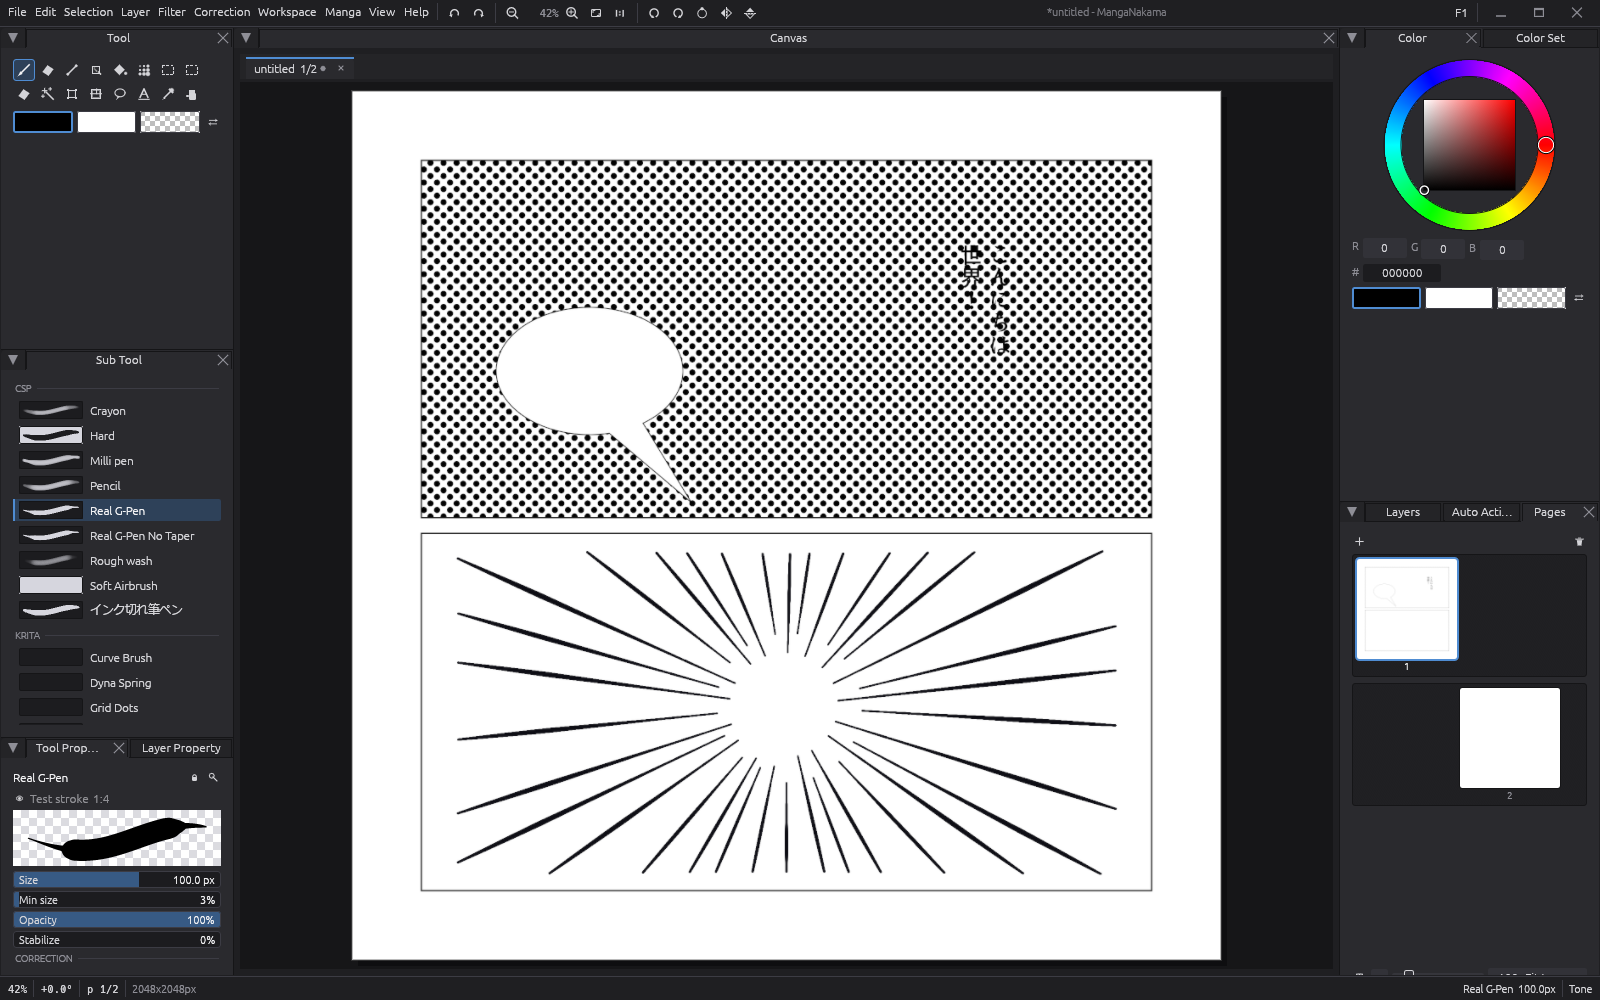
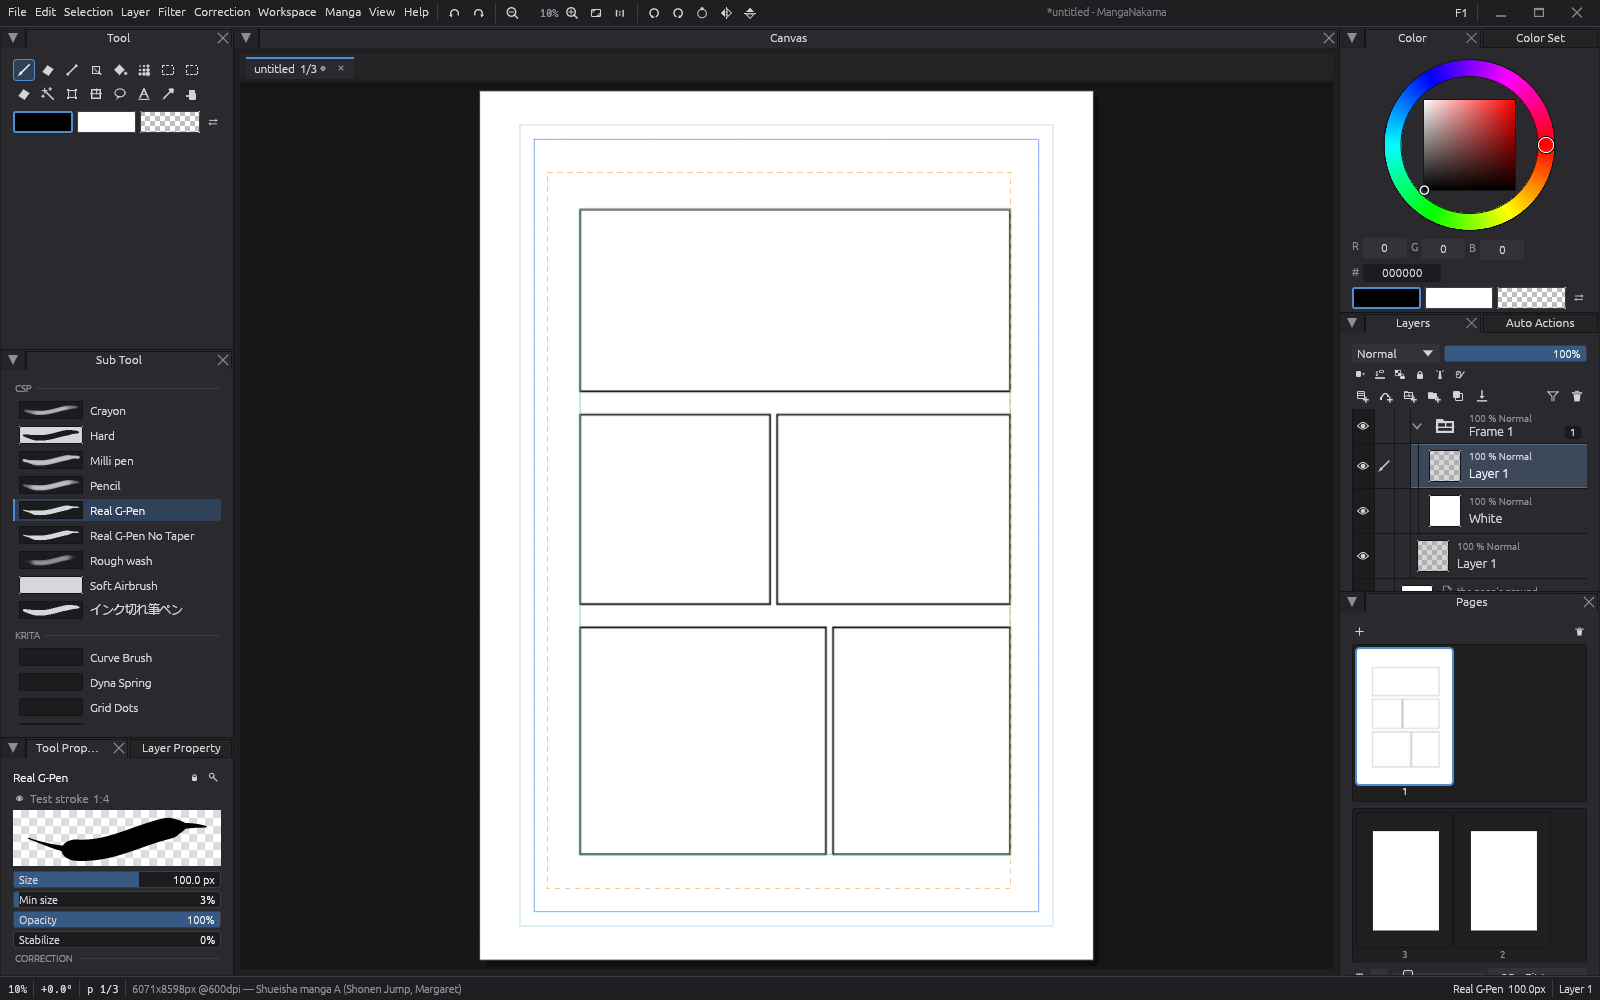
Hero screenshot: blank 3-page Shueisha-format work, page 1 divided
The README image showed a demo page of art (screentone, balloon, focus
lines). Owner's call: show the MANUSCRIPT the app is for instead - a blank
three-page work in the Japanese submission format, page 1 cut into panels,
nothing drawn anywhere.

--shot-hero now builds its own document and returns before the agent-facing
demo page: New Comic with the shipped "Shueisha manga A (Shonen Jump,
Margaret)" preset (B4 257x364 mm at 600 dpi, trim, 6 mm bleed, 180x270 mm
inner border, publisher safety margins), 3 pages, then four Frame-tool
divides of the border - one wide top tier over two tiers of two - at CSP's
own gutters. Every step goes through the real commands.

Three things the harness has to do for itself because it never runs
App::render or reads a live window:
  - the dock is reset to the shipped columns (a ui.txt beside the exe had
    torn Layers off into a floating window, which the shot would have
    published), with Pages given a leaf under Layers - the default's foot
    of the left column is too short to show three pages at 1000 px;
  - the active page's Pages thumbnail is minted (render's own two lines),
    else page 1 shows the grey "editing" placeholder;
  - the folder's draw layer is selected, so the frame-focus veil (blue wash
    outside the panels, what --shot-framefocus exists to show) lifts and
    the paper is white.

Capture itself is untouched. Also: demo_strokes' doc comment, which had
drifted onto the old hero function, is back on demo_strokes.

diff --git a/crates/app/src/screenshot.rs b/crates/app/src/screenshot.rs
@@ -49,6 +49,17 @@ pub fn run(
     // Everything the shot is meant to prove renders, including the HUD —
     // except a hero shot, whose audience is a README reader, not an agent.
     app.hud_open = !shot_hero;
+    // The hero shot builds its OWN document (a blank manuscript) and leaves
+    // this harness's demo page — strokes, balloon, tone, self-checks — to the
+    // agent-facing shots. Capture itself is shared, deliberately: the README
+    // image must come out of the same path the app renders with.
+    if shot_hero {
+        hero_doc(&mut app);
+        let img = capture(&mut app, w, h, true)?;
+        img.save(out).map_err(|e| format!("png write: {e}"))?;
+        println!("[app] screenshot {}x{} -> {}", w, h, out.display());
+        return Ok(());
+    }
     // Round 7/10: a frame border FOLDER cut into three panels — proves the
     // koma raster (white gutter + borders), the folder rows (header + White +
     // draw layer) and Layer Property. The strokes go in AFTER it exists so
@@ -335,16 +346,6 @@ pub fn run(
         }
     }
 
-    if shot_hero {
-        // Hero content: strokes feed through the viewport round trip
-        // (to_screen → push_batch → to_canvas), so they land in doc space
-        // whatever the current zoom; the page FIT happens inside capture,
-        // once the dock has laid the canvas pane out.
-        hero_extras(&mut app);
-        // A frozen coaching line ("tone layer — paint grey/black ink…")
-        // reads as noise under a README title.
-        app.set_status(String::new());
-    }
     // The derived tone rasters normally refresh at the head of App::render;
     // this harness never runs it, so a tone layer added above would shoot
     // as an invisible no-op without this.
@@ -376,78 +377,131 @@ const DEMO_FOOTPRINT: ((i32, i32), (i32, i32)) = ((320, 186), (800, 414));
 /// physics, not a coordinate bug.
 const TILE: i32 = 128;
 
+/// The hero shot's document (owner's call, 2026-08-22): a BLANK three-page
+/// work in the Japanese submission manuscript format — B4 paper at 600 dpi
+/// with the Shueisha trim/bleed/inner guides — page 1 cut into five empty
+/// panels, pages 2 and 3 left as the single default frame. The README should
+/// show the manuscript the app is for, not a demo page of art.
+///
+/// Built entirely through the real commands: New Comic (the dialog's draft +
+/// `NewComicCreate`) and the Frame tool's divide, aimed the way a drag across
+/// a panel aims it.
+fn hero_doc(app: &mut App) {
+    use crate::cmd::{AppCmd, FrameMode, dispatch};
+
+    // The SHIPPED layout, whatever `ui.txt` beside the exe says: a README
+    // image taken on a machine whose palettes had been dragged around
+    // advertises that machine, not the app. The one departure: Pages gets a
+    // leaf of its own under Layers instead of the foot of the left column,
+    // where the default's share of a 1000 px window is too short to show a
+    // three-page work. Built from the same column builders as `default_tree`,
+    // with the same width seeds, so the columns come out shipped-width.
+    {
+        use crate::ui::dock::{Palette, default_left, merge_columns};
+        let mut left = default_left();
+        // (bound first: an `if let` would pin the iterator's borrow of `left`
+        // across the body, and `remove_tab` needs it mutably.)
+        let pages_tab = left
+            .iter_all_tabs()
+            .find(|(_, t)| **t == Palette::Pages)
+            .map(|(p, _)| p);
+        if let Some(path) = pages_tab {
+            left.remove_tab(path);
+        }
+        let mut right = egui_dock::DockState::new(vec![Palette::Color, Palette::ColorSet]);
+        {
+            let tree = right.main_surface_mut();
+            let [_, mid] = tree.split_below(
+                egui_dock::NodeIndex::root(),
+                0.30,
+                vec![Palette::Layers, Palette::Actions],
+            );
+            tree.split_below(mid, 0.42, vec![Palette::Pages]);
+        }
+        let (l, r) = (
+            serde_json::to_string(&left).unwrap_or_default(),
+            serde_json::to_string(&right).unwrap_or_default(),
+        );
+        if let Some(tree) = merge_columns(&l, &r, 186.0, 208.0, 1280.0) {
+            app.dock = tree;
+        }
+    }
+    // Page cells small enough that all three fit the Pages leaf (the palette's
+    // own size control, which `ui.txt` may have left anywhere).
+    app.pages_fit = false;
+    app.pages_cell_w = 95.0;
+    app.new_doc_draft.setup = mn_core::PageSetup::presets().remove(0);
+    app.new_doc_draft.pages = 3;
+    app.new_doc_draft.binding_right = true;
+    app.new_doc_draft.frame_folder = true;
+    app.new_doc_draft.story = String::new();
+    dispatch(app, AppCmd::NewComicCreate);
+    // New Comic parks the startup canvas in a tab of its own; the README
+    // wants one document, not a spare empty one beside it.
+    app.close_doc(0);
+
+    // Divide the BORDER, not into new folders: one frame folder holding
+    // every panel is what a page cut up in one sitting looks like, and it
+    // keeps the Layers palette readable. The gutters are CSP's own defaults
+    // (2.96 mm between columns, 9.74 mm between rows) — the Frame tool's
+    // per-sub-tool Tool Property, set here because the border sub tool's
+    // remembered pair is tighter than a printed page reads at fit zoom.
+    app.frame_mode = FrameMode::DivideBorder;
+    app.gutter_border_mm = (2.96, 9.74);
+    let Some([x0, y0, x1, y1]) = app.page.as_ref().map(|p| p.inner_rect_px()) else {
+        return;
+    };
+    let (w, h) = (x1 - x0, y1 - y0);
+    let at = |fx: f32, fy: f32| (x0 + w * fx, y0 + h * fy);
+    // Tiers first (each cut segment runs past the paper edge, like a drag
+    // that starts and ends off the panel), then one vertical cut inside
+    // each of the lower two tiers — the cut only splits frames its SEGMENT
+    // touches, so the tier above is untouched.
+    let (row1, row2) = (0.30f32, 0.63f32);
+    for fy in [row1, row2] {
+        let (_, y) = at(0.0, fy);
+        dispatch(
+            app,
+            AppCmd::FrameDivide {
+                a: (x0 - w * 0.1, y),
+                b: (x1 + w * 0.1, y),
+            },
+        );
+    }
+    for (fx, top, bottom) in [(0.45f32, row1, row2), (0.58, row2, 1.0)] {
+        let (x, _) = at(fx, 0.0);
+        dispatch(
+            app,
+            AppCmd::FrameDivide {
+                a: (x, at(0.0, top).1 + h * 0.02),
+                b: (x, at(0.0, bottom).1 - h * 0.02),
+            },
+        );
+    }
+    // Then select the folder's draw layer, the way you do before inking:
+    // with a FRAME layer active the canvas wears the frame-focus veil (a
+    // blue wash over everything outside the panels — `--shot-framefocus` is
+    // the shot that exists to show it), and the README wants white paper.
+    // `add_frame_folder` pushes White, draw, header, so the draw layer is
+    // the row directly under the header.
+    if let Some(fi) = app.doc.layers.iter().rposition(|l| l.folder && l.is_frame()) {
+        app.doc.set_active(fi.saturating_sub(1));
+    }
+    // The ACTIVE page's Pages-panel thumbnail is minted at the head of
+    // `App::render`, which this harness never runs — without these two lines
+    // (render's own) page 1 shows the grey "editing" placeholder while the
+    // parked pages show their stashed thumbs.
+    let thumb = app.thumb_of_current();
+    app.pages[app.page_index].thumb = Some(thumb);
+    // A frozen coaching line ("divided into…") reads as noise under a
+    // README title.
+    app.set_status(String::new());
+}
+
 /// A few strokes so the canvas is not blank in the shot (and the tile upload +
 /// compositing path is exercised). Coordinates are CANVAS space; they go
 /// through `viewport.to_screen` because `push_batch` converts screen→canvas
 /// itself (the live WM_POINTER path hands it client-space history batches).
-/// Hero-shot content pass: a tapered speed-line burst in the lower half of
-/// the page, then the one-gesture Tone tool over the upper panel — so the
-/// README shows a page that reads as manga (ink + screentone), all through
-/// the same real command/stroke paths as everything else in this harness.
-fn hero_extras(app: &mut App) {
-    app.engine_mut().set_color([0.05, 0.05, 0.08]);
-    let vp = app.viewport;
-    // Focus lines: from an outer arc toward a focal point in the lower
-    // panel, stopping short of it, tapering to nothing — the manga read.
-    // A full focus-line FIELD around the lower panel's centre, every line
-    // clipped to a conservative interior box so nothing crosses the panel
-    // border (the one thing a manga reader spots instantly), dense enough
-    // to read as a field rather than countable strokes.
-    let (cx, cy) = (1024.0f32, 1450.0f32);
-    let (bx0, by0, bx1, by1) = (240.0f32, 1080.0f32, 1810.0f32, 1850.0f32);
-    for i in 0..34 {
-        let a = i as f32 * (std::f32::consts::TAU / 34.0) + (i as f32 * 1.7).sin() * 0.04;
-        let (dx, dy) = (a.sin(), a.cos());
-        // Where the ray from the focal point exits the interior box.
-        let tx = if dx > 0.0 {
-            (bx1 - cx) / dx
-        } else if dx < 0.0 {
-            (bx0 - cx) / dx
-        } else {
-            f32::INFINITY
-        };
-        let ty = if dy > 0.0 {
-            (by1 - cy) / dy
-        } else if dy < 0.0 {
-            (by0 - cy) / dy
-        } else {
-            f32::INFINITY
-        };
-        let r0 = (tx.min(ty) - 10.0).max(180.0);
-        let r1 = 150.0 + (i as f32 * 3.1).cos() * 30.0;
-        let (x0, y0) = (cx + dx * r0, cy + dy * r0);
-        let (x1, y1) = (cx + dx * r1, cy + dy * r1);
-        app.begin_stroke(PointerKind::Mouse);
-        let batch: Vec<PenSample> = (0..40)
-            .map(|k| {
-                let t = k as f32 / 39.0;
-                let (x, y) = vp.to_screen(x0 + (x1 - x0) * t, y0 + (y1 - y0) * t);
-                PenSample {
-                    x,
-                    y,
-                    pressure: (0.4 * (1.0 - t)).max(0.02),
-                    tilt_x: 0.0,
-                    tilt_y: 0.0,
-                    t_ms: k as f64 * 4.0,
-                }
-            })
-            .collect();
-        for chunk in batch.chunks(9) {
-            app.push_batch(chunk);
-            app.flush_gpu_dabs();
-        }
-        app.end_stroke();
-    }
-    // Screentone over the upper panel: the one-gesture Tone tool, flooding
-    // from an empty spot of the panel — the balloon is CLOSED, so the tone
-    // wraps around it, the classic look. Coarse and light on purpose: the
-    // dots must SURVIVE the fitted ~40% zoom (a fine 60 LPI screen at 35%
-    // reads as flat grey, and 100% coverage reads as a black fill).
-    app.tone_opts.density = 0.35;
-    app.tone_opts.tone.lpi = 27.5;
-    crate::cmd::dispatch(app, crate::cmd::AppCmd::ToneRegion(180.0, 780.0));
-}
-
 fn demo_strokes(app: &mut App) {
     app.engine_mut().set_color([0.05, 0.05, 0.08]);
     let vp = app.viewport;

diff --git a/README.md b/README.md
@@ -1,6 +1,6 @@
 # MangaNakama
 
-![MangaNakama — panels, screentone, balloons and vertical Japanese text on a manga page](docs/screenshot.png)
+![MangaNakama — a blank three-page manuscript in the Japanese submission format (B4, 600 dpi, trim and safety guides), page one divided into panels](docs/screenshot.png)
 
 A free, GPU-first manga drawing app for Windows: inking, panels, screentone,
 balloons, vertical Japanese text, multi-page chapters, and a built-in reader
